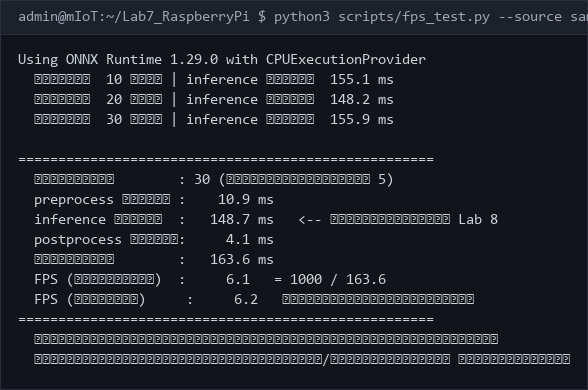
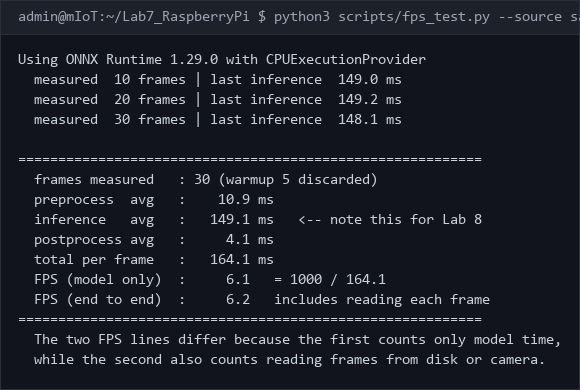
Lab7+Lab8: keep script output ASCII so the figures are readable
The repo already had this rule, written in its own scripts: "print messages
must be ASCII - a console that isn't a Thai codepage will break on Thai."
The Pi scripts I added yesterday printed Thai, and it showed up where it
does the most damage: docs/shoot.py renders figures with Consolas, which
has no Thai glyphs, so every measurement table in the Lab 7 and Lab 8
figures came out as rows of empty boxes.

Pillow here is built without Raqm, so it cannot shape Thai combining vowels
and tone marks at all -- swapping in a Thai font would place the marks
wrongly rather than fix it. Following the existing convention is both the
correct fix and the cheaper one: Thai stays in the comments and the manual,
where it is actually read, and screen output is English.

All eight scripts were rerun on the Pi afterwards, so every number and every
figure in both manuals now comes from the ASCII versions rather than from
the earlier run. The install figure is from a genuinely cold run with the
pip cache purged (7m09s), so the torch 159.3 MB download line the caption
points at is really there, rather than a "Using cached" line from a warm
second run.

Numbers moved slightly on rerun, as they should between runs, and the
manuals were updated to match: 640 inference 149.1 ms, 320 inference
32.7 ms (24.8 FPS), Hailo yolov6n 3.18 ms / 586.6 FPS.

Claude-Session: https://claude.ai/code/session_01N1f4sboC6iyqwdT2gMnRu2

diff --git a/Lab7_RaspberryPi/manual.html b/Lab7_RaspberryPi/manual.html
@@ -88,7 +88,7 @@ figcaption{color:var(--muted);font-size:13px;margin-top:10px;text-align:center}
 <li>กล้อง USB หรือ Pi Camera เสียบไว้กับ Pi</li>
 </ul>
 
-<div class="danger"><b>เตรียมพื้นที่และเวลาไว้ให้พอ</b> — ขั้นตอนติดตั้งบน Pi ใช้เวลาราว <b>8 นาที</b> และกินพื้นที่ <b>1.4 GB</b>
+<div class="danger"><b>เตรียมพื้นที่และเวลาไว้ให้พอ</b> — ขั้นตอนติดตั้งบน Pi ใช้เวลาราว <b>7 นาที</b> และกินพื้นที่ <b>1.4 GB</b>
 อย่าเพิ่งเริ่มถ้าเหลือเวลาคาบไม่ถึงครึ่งชั่วโมง</div>
 
 <div class="step"><span class="n">Step 1</span>
@@ -223,20 +223,20 @@ python3 -m venv venv
 ./venv/bin/python scripts/fps_test.py --source samples --frames 30</pre>
 <figure>
   <img src="../docs/images/lab7_fps_640.png" alt="ผลวัดความเร็วบน Raspberry Pi 5 ที่ขนาดภาพ 640">
-  <figcaption>YOLO11n ONNX ที่ 640×640 บน Pi 5 — <b>inference 148.7 ms</b> ต่อเฟรม ได้ราว <b>6 FPS</b></figcaption>
+  <figcaption>YOLO11n ONNX ที่ 640×640 บน Pi 5 — <b>inference 149.1 ms</b> ต่อเฟรม ได้ราว <b>6 FPS</b></figcaption>
 </figure>
 <table>
 <thead><tr><th>ค่าที่วัดได้</th><th>คืออะไร</th><th>ทำไมต้องดู</th></tr></thead>
 <tbody>
 <tr><td><code>preprocess 10.9 ms</code></td><td>ย่อภาพ ใส่ letterbox แปลงเป็น tensor</td><td>งานของ CPU ล้วน ๆ ยิ่งภาพเข้าใหญ่ยิ่งนาน</td></tr>
-<tr><td><b><code>inference 148.7 ms</code></b></td><td>เวลาที่โมเดลคิดจริง ๆ</td><td><b>ตัวหลักที่ต้องจด</b> เอาไปเทียบกับ AI HAT ใน Lab 8</td></tr>
+<tr><td><b><code>inference 149.1 ms</code></b></td><td>เวลาที่โมเดลคิดจริง ๆ</td><td><b>ตัวหลักที่ต้องจด</b> เอาไปเทียบกับ AI HAT ใน Lab 8</td></tr>
 <tr><td><code>postprocess 4.1 ms</code></td><td>ถอดกล่อง ทำ NMS</td><td>เล็กน้อยเมื่อเทียบกับ inference บนเครื่องนี้</td></tr>
-<tr><td><code>FPS (เฉพาะโมเดล) 6.1</code></td><td><code>1000 / 163.6</code></td><td>เพดานทางทฤษฎีถ้าอ่านภาพเข้ามาได้ฟรี</td></tr>
-<tr><td><code>FPS (ทั้งระบบ) 6.2</code></td><td>วัดจากเวลาจริงทั้งวง</td><td><b>ตัวเลขที่ผู้ใช้เห็นจริง</b> รวมเวลาอ่านภาพเข้ามาด้วย</td></tr>
+<tr><td><code>FPS (model only) 6.1</code></td><td><code>1000 / 164.1</code></td><td>เพดานทางทฤษฎีถ้าอ่านภาพเข้ามาได้ฟรี</td></tr>
+<tr><td><code>FPS (end to end) 6.2</code></td><td>วัดจากเวลาจริงทั้งวง</td><td><b>ตัวเลขที่ผู้ใช้เห็นจริง</b> รวมเวลาอ่านภาพเข้ามาด้วย</td></tr>
 </tbody>
 </table>
 <div class="tip"><b>เทียบกับ Lab 6:</b> โน้ตบุ๊ก RTX 3050 Ti รัน <code>.onnx</code> บน CPU ได้ 40.4 ms
-ส่วน Pi 5 ใช้ 148.7 ms — <b>ช้ากว่าราว 3.7 เท่า</b> นี่คือราคาของการย้ายลง Edge</div>
+ส่วน Pi 5 ใช้ 149.1 ms — <b>ช้ากว่าราว 3.7 เท่า</b> นี่คือราคาของการย้ายลง Edge</div>
 
 <div class="walk">
 <h4>🔍 ในสคริปต์มีอะไร — <code>fps_test.py</code></h4>
@@ -266,22 +266,24 @@ for n, frame in enumerate(frames):
 <h3>รันกับกล้องจริง</h3>
 <p>วัดด้วยกล้องก่อน (สั่งผ่าน SSH ได้ ไม่ต้องมีหน้าจอ):</p>
 <pre>./venv/bin/python scripts/fps_test.py --source 0 --frames 20</pre>
-<pre class="out">แหล่งภาพ: กล้อง index 0
+<pre class="out">Source: camera index 0
 Loading /home/admin/Lab7_RaspberryPi/model/best.onnx for ONNX Runtime inference...
 Using ONNX Runtime 1.29.0 with CPUExecutionProvider
-  วัดแล้ว  10 เฟรม | inference ล่าสุด  145.2 ms
-  วัดแล้ว  20 เฟรม | inference ล่าสุด  144.6 ms
+  measured  10 frames | last inference  151.4 ms
+  measured  20 frames | last inference  148.8 ms
 
-====================================================
-  เฟรมที่วัด        : 20 (ทิ้งรอบอุ่นเครื่อง 5)
-  preprocess เฉลี่ย :     9.8 ms
-  inference เฉลี่ย  :   145.6 ms   &lt;-- จดตัวนี้ไปใช้ใน Lab 8
-  postprocess เฉลี่ย:     2.8 ms
-  รวมต่อเฟรม        :   158.2 ms
-====================================================</pre>
+==========================================================
+  frames measured   : 20 (warmup 5 discarded)
+  preprocess  avg   :     9.6 ms
+  inference   avg   :   149.9 ms   &lt;-- note this for Lab 8
+  postprocess avg   :     4.2 ms
+  total per frame   :   163.7 ms
+  FPS (model only)  :     6.1   = 1000 / 163.7
+  FPS (end to end)  :     6.4   includes reading each frame
+==========================================================</pre>
 <p>ถ้าอยาก<b>เห็นภาพพร้อมกรอบ</b> ต้องรันที่หน้าจอที่ต่อกับ Pi โดยตรง (ผ่าน SSH เปล่า ๆ เปิดหน้าต่างไม่ได้):</p>
 <pre>./run_detect_pi.sh</pre>
-<div class="tip"><b>ตัวเลขจากกล้องใกล้เคียงกับจากภาพนิ่งมาก</b> (145.6 เทียบกับ 148.7 ms)
+<div class="tip"><b>ตัวเลขจากกล้องใกล้เคียงกับจากภาพนิ่งมาก</b> (149.9 เทียบกับ 149.1 ms)
 แปลว่าคอขวดอยู่ที่<b>ตัวโมเดล</b> ไม่ใช่ที่กล้อง — ซื้อกล้องแพงขึ้นก็ไม่ช่วย</div>
 </div>
 
@@ -301,16 +303,16 @@ Using ONNX Runtime 1.29.0 with CPUExecutionProvider
 <p>แล้วโอนไฟล์ไป Pi และวัดใหม่:</p>
 <figure>
   <img src="../docs/images/lab7_fps_320.png" alt="ผลวัดความเร็วที่ขนาดภาพ 320">
-  <figcaption>ที่ 320×320 — <b>inference 32.4 ms</b> ได้ <b>24.9 FPS</b></figcaption>
+  <figcaption>ที่ 320×320 — <b>inference 32.7 ms</b> ได้ <b>24.8 FPS</b></figcaption>
 </figure>
 
 <h4>ตารางแลกเปลี่ยน: เร็วขึ้นแลกกับอะไร</h4>
 <table>
 <thead><tr><th>ขนาดภาพเข้า</th><th>inference</th><th>FPS</th><th>mAP50</th><th>mAP50-95</th></tr></thead>
 <tbody>
-<tr><td>640 × 640</td><td>148.7 ms</td><td>6.1</td><td><b>0.9750</b></td><td><b>0.8311</b></td></tr>
-<tr><td><b>320 × 320</b></td><td><b>32.4 ms</b></td><td><b>24.9</b></td><td>0.9471</td><td>0.7795</td></tr>
-<tr><td>ต่างกัน</td><td><b>เร็วขึ้น 4.6 เท่า</b></td><td>+18.8</td><td>−0.028</td><td>−0.052</td></tr>
+<tr><td>640 × 640</td><td>149.1 ms</td><td>6.1</td><td><b>0.9750</b></td><td><b>0.8311</b></td></tr>
+<tr><td><b>320 × 320</b></td><td><b>32.7 ms</b></td><td><b>24.8</b></td><td>0.9471</td><td>0.7795</td></tr>
+<tr><td>ต่างกัน</td><td><b>เร็วขึ้น 4.6 เท่า</b></td><td>+18.7</td><td>−0.028</td><td>−0.052</td></tr>
 </tbody>
 </table>
 <div class="tip"><b>อ่านตารางนี้ให้เป็น</b> — ลดขนาดภาพครึ่งหนึ่ง งานคำนวณลดลงราว 4 เท่า (เพราะเป็นพื้นที่ ไม่ใช่ความยาว)
@@ -380,8 +382,8 @@ Using ONNX Runtime 1.29.0 with CPUExecutionProvider
 
 <div class="tip"><b>ทดสอบแล้วบนเครื่องจริง</b> — Raspberry Pi 5 Model B Rev 1.1 (RAM 4 GB, Raspberry Pi OS บน Debian 13 trixie, Python 3.13.5, aarch64 4 คอร์)
 กล้อง Logitech C270 ผ่าน USB ที่ <code>/dev/video0</code>:
-<code>setup_pi.sh</code> ใช้เวลา <b>7 นาที 38 วินาที</b> ได้ venv ขนาด <b>1.4 GB</b> —
-โมเดล YOLO11n ONNX ที่ 640 ได้ <b>inference 148.7 ms (6.1 FPS)</b> และที่ 320 ได้ <b>32.4 ms (24.9 FPS)</b>
+<code>setup_pi.sh</code> ใช้เวลา <b>7 นาที 9 วินาที</b> (โหลดสด ไม่ใช้แคช) ได้ venv ขนาด <b>1.4 GB</b> —
+โมเดล YOLO11n ONNX ที่ 640 ได้ <b>inference 149.1 ms (6.1 FPS)</b> และที่ 320 ได้ <b>32.7 ms (24.8 FPS)</b>
 ตัวเลข mAP มาจากการ <code>val</code> บน test split ของ african-wildlife (227 ภาพ)</div>
 
 <div class="deliverable">

diff --git a/Lab8_AIHat/manual.html b/Lab8_AIHat/manual.html
@@ -138,7 +138,7 @@ fi</pre>
 ./run_detect_hailo.sh yolov8s</pre>
 <figure>
   <img src="../docs/images/lab8_download_run.png" alt="ผลการเตรียมไฟล์ hef และวัดความเร็วบน Hailo">
-  <figcaption>YOLOv8s บน Hailo-8 — <b>latency 6.66 ms</b> ได้ <b>309.5 FPS</b></figcaption>
+  <figcaption>YOLOv8s บน Hailo-8 — <b>latency 6.66 ms</b> ได้ <b>309.4 FPS</b></figcaption>
 </figure>
 
 <div class="card">
@@ -193,7 +193,7 @@ done</pre>
 <div class="step"><span class="n">Step 3</span>
 <h3>เทียบกับตัวเลข CPU ที่วัดเองใน Lab 7</h3>
 <pre>./run_detect_hailo.sh
-python3 compare_speed.py --cpu 148.7 --hailo 3.18</pre>
+python3 compare_speed.py --cpu 149.1 --hailo 3.18</pre>
 <figure>
   <img src="../docs/images/lab8_compare.png" alt="เทียบความเร็ว CPU กับ Hailo AI HAT">
   <figcaption>ใส่ตัวเลขที่<b>วัดเองจากเครื่องตัวเอง</b> ไม่ใช่ลอกจากคู่มือ</figcaption>
@@ -201,9 +201,9 @@ python3 compare_speed.py --cpu 148.7 --hailo 3.18</pre>
 <table>
 <thead><tr><th>โมเดล</th><th>รันบน</th><th>latency</th><th>FPS</th></tr></thead>
 <tbody>
-<tr><td>YOLO11n @640 (ของเรา)</td><td>Pi 5 CPU</td><td>148.7 ms</td><td>6.1</td></tr>
-<tr><td>YOLOv6n @640</td><td><b>Hailo-8</b></td><td><b>3.18 ms</b></td><td><b>586.5</b></td></tr>
-<tr><td>YOLOv8s @640</td><td><b>Hailo-8</b></td><td>6.66 ms</td><td>309.5</td></tr>
+<tr><td>YOLO11n @640 (ของเรา)</td><td>Pi 5 CPU</td><td>149.1 ms</td><td>6.1</td></tr>
+<tr><td>YOLOv6n @640</td><td><b>Hailo-8</b></td><td><b>3.18 ms</b></td><td><b>586.6</b></td></tr>
+<tr><td>YOLOv8s @640</td><td><b>Hailo-8</b></td><td>6.66 ms</td><td>309.4</td></tr>
 </tbody>
 </table>
 <div class="danger"><b>ตัวเลข "เร็วขึ้น 47 เท่า" นี้เกินจริง ต้องอ่านให้เป็น</b> เพราะสองฝั่งไม่ยุติธรรมกันอยู่ 2 ข้อ:
@@ -221,9 +221,9 @@ python3 compare_speed.py --cpu 148.7 --hailo 3.18</pre>
 <thead><tr><th>ท่อน</th><th>บน CPU ล้วน</th><th>ถ้ายก inference ไปให้ NPU</th></tr></thead>
 <tbody>
 <tr><td>preprocess</td><td>10.9 ms</td><td>10.9 ms (ยังอยู่บน CPU)</td></tr>
-<tr><td>inference</td><td>148.7 ms</td><td><b>~3.2 ms</b></td></tr>
+<tr><td>inference</td><td>149.1 ms</td><td><b>~3.2 ms</b></td></tr>
 <tr><td>postprocess</td><td>4.1 ms</td><td>4.1 ms (ยังอยู่บน CPU)</td></tr>
-<tr><td><b>รวม</b></td><td><b>163.6 ms (6.1 FPS)</b></td><td><b>~18.2 ms (~55 FPS)</b></td></tr>
+<tr><td><b>รวม</b></td><td><b>164.1 ms (6.1 FPS)</b></td><td><b>~18.2 ms (~55 FPS)</b></td></tr>
 </tbody>
 </table>
 <p>เร่งเฉพาะ inference ได้ 47 เท่า แต่ทั้งระบบเร็วขึ้นราว <b>9 เท่า</b> เท่านั้น
@@ -284,8 +284,8 @@ LAT=$(awk -F'= *' '/Latency +\(hw\)/{print $2}' "$LOG" | awk '{print $1}')</pre>
 
 <div class="tip"><b>ทดสอบแล้วบนเครื่องจริง</b> — Raspberry Pi 5 Model B Rev 1.1 + Hailo-8 บน PCIe (<code>0001:01:00.0</code>),
 <code>hailo-all</code> 5.1.1, HailoRT/เฟิร์มแวร์ 4.23.0, Device Architecture <code>HAILO8</code>:
-<code>yolov6n_h8.hef</code> ได้ <b>586.5 FPS / latency 3.18 ms</b> และ <code>yolov8s_h8.hef</code> ได้ <b>309.5 FPS / latency 6.66 ms</b>
-เทียบกับ CPU ของ Pi เครื่องเดียวกันใน Lab 7 ที่ inference 148.7 ms
+<code>yolov6n_h8.hef</code> ได้ <b>586.6 FPS / latency 3.18 ms</b> และ <code>yolov8s_h8.hef</code> ได้ <b>309.4 FPS / latency 6.66 ms</b>
+เทียบกับ CPU ของ Pi เครื่องเดียวกันใน Lab 7 ที่ inference 149.1 ms
 การวัดพลังงานด้วย <code>--measure-power</code> ใช้กับบอร์ดตัวนี้ไม่ได้</div>
 
 <div class="deliverable">

diff --git a/Lab7_RaspberryPi/scripts/fps_test.py b/Lab7_RaspberryPi/scripts/fps_test.py
@@ -1,11 +1,14 @@
 """Lab 7 - วัดความเร็ว YOLO บน Raspberry Pi (CPU)
 
 ใช้ได้ 2 แบบ
-  python3 fps_test.py                 # ใช้กล้อง /dev/video0
+  python3 fps_test.py                       # ใช้กล้อง /dev/video0
   python3 fps_test.py --source ../samples   # ใช้ภาพนิ่งในโฟลเดอร์ (ไม่ต้องมีกล้อง)
 
-ตัวเลข "inference เฉลี่ย (ms)" ที่พิมพ์ออกมาตอนจบ คือค่าที่ต้องจดไปกรอกใน
+ตัวเลข "inference avg" ที่พิมพ์ออกมาตอนจบ คือค่าที่ต้องจดไปกรอกใน
 Lab 8 (compare_speed.py) เพื่อเทียบกับ AI HAT
+
+ข้อความ print ต้องเป็น ASCII - console ที่ไม่ใช่ codepage ไทยจะพังถ้าเจอภาษาไทย
+และตัวเรนเดอร์ภาพประกอบ (docs/shoot.py) ก็วาดสระ/วรรณยุกต์ไทยไม่ได้
 """
 import argparse
 import statistics
@@ -27,7 +30,7 @@ def frames_from_folder(folder, count):
     """วนอ่านภาพนิ่งในโฟลเดอร์ซ้ำไปเรื่อย ๆ จนครบจำนวนที่ขอ"""
     files = sorted(p for p in folder.iterdir() if p.suffix.lower() in IMG_EXT)
     if not files:
-        raise SystemExit(f"ไม่พบไฟล์ภาพใน {folder}")
+        raise SystemExit(f"No image files found in {folder}")
     for i in range(count):
         img = cv2.imread(str(files[i % len(files)]))
         if img is not None:
@@ -38,9 +41,10 @@ def frames_from_camera(index, count):
     cap = cv2.VideoCapture(index)
     if not cap.isOpened():
         raise SystemExit(
-            f"เปิดกล้อง index {index} ไม่ได้\n"
-            "  - เช็คว่ามี /dev/video* หรือยัง:  ls /dev/video*\n"
-            "  - เช็คว่าระบบเห็นกล้องไหม:      lsusb"
+            f"Cannot open camera index {index}\n"
+            "  - list video devices:   ls /dev/video*\n"
+            "  - check the USB camera: lsusb\n"
+            "  - Pi Camera instead:    rpicam-hello --list-cameras"
         )
     try:
         for _ in range(count):
@@ -56,33 +60,33 @@ def main():
     ap = argparse.ArgumentParser()
     ap.add_argument("--model", default=str(DEFAULT_MODEL))
     ap.add_argument("--source", default="0",
-                    help="เลข index กล้อง (เช่น 0) หรือ path โฟลเดอร์ภาพ")
-    ap.add_argument("--frames", type=int, default=60, help="จำนวนเฟรมที่วัด")
+                    help="camera index (e.g. 0) or a folder of images")
+    ap.add_argument("--frames", type=int, default=60, help="frames to measure")
     ap.add_argument("--warmup", type=int, default=5,
-                    help="เฟรมแรก ๆ ที่ทิ้งไม่นับ (รอบแรกช้าผิดปกติเสมอ)")
+                    help="frames to discard first (the first runs are always slow)")
     ap.add_argument("--imgsz", type=int, default=None,
-                    help="ปล่อยว่างไว้ = ใช้ขนาดที่ export มา")
+                    help="leave empty to use the size the model was exported at")
     ap.add_argument("--show", action="store_true",
-                    help="เปิดหน้าต่างแสดงผล (ต้องรันหน้าจอ Pi ไม่ใช่ผ่าน SSH)")
+                    help="open a preview window (needs a screen on the Pi, not plain SSH)")
     args = ap.parse_args()
 
     model_path = Path(args.model)
     if not model_path.exists():
         raise SystemExit(
-            f"ไม่พบโมเดลที่ {model_path}\n"
-            "คัดลอก best.onnx จาก Lab 6 มาไว้ที่ Lab7_RaspberryPi/model/ ก่อน"
+            f"Model not found at {model_path}\n"
+            "Copy best.onnx from Lab 6 into Lab7_RaspberryPi/model/ first."
         )
 
-    print(f"โมเดล : {model_path}")
+    print(f"Model : {model_path}")
     model = YOLO(str(model_path), task="detect")
 
     total = args.warmup + args.frames
     src = Path(args.source)
     if src.is_dir():
-        print(f"แหล่งภาพ: โฟลเดอร์ {src}")
+        print(f"Source: folder {src}")
         frames = frames_from_folder(src, total)
     else:
-        print(f"แหล่งภาพ: กล้อง index {args.source}")
+        print(f"Source: camera index {args.source}")
         frames = frames_from_camera(int(args.source), total)
 
     predict_kwargs = {"verbose": False}
@@ -106,28 +110,28 @@ def main():
             if cv2.waitKey(1) & 0xFF == ord("q"):
                 break
         if len(inf) % 10 == 0:
-            print(f"  วัดแล้ว {len(inf):3d} เฟรม | inference ล่าสุด {inf[-1]:6.1f} ms")
+            print(f"  measured {len(inf):3d} frames | last inference {inf[-1]:6.1f} ms")
 
     if args.show:
         cv2.destroyAllWindows()
 
     if not inf:
-        raise SystemExit("ไม่ได้เฟรมสักเฟรม - เช็คกล้อง/โฟลเดอร์ภาพ")
+        raise SystemExit("Got no frames at all - check the camera or image folder")
 
     wall = time.perf_counter() - t_start
     per_frame = statistics.mean(pre) + statistics.mean(inf) + statistics.mean(post)
     print()
-    print("=" * 52)
-    print(f"  เฟรมที่วัด        : {len(inf)} (ทิ้งรอบอุ่นเครื่อง {args.warmup})")
-    print(f"  preprocess เฉลี่ย : {statistics.mean(pre):7.1f} ms")
-    print(f"  inference เฉลี่ย  : {statistics.mean(inf):7.1f} ms   <-- จดตัวนี้ไปใช้ใน Lab 8")
-    print(f"  postprocess เฉลี่ย: {statistics.mean(post):7.1f} ms")
-    print(f"  รวมต่อเฟรม        : {per_frame:7.1f} ms")
-    print(f"  FPS (เฉพาะโมเดล)  : {1000 / per_frame:7.1f}   = 1000 / {per_frame:.1f}")
-    print(f"  FPS (ทั้งระบบ)     : {len(inf) / wall:7.1f}   รวมเวลาอ่านภาพเข้ามาด้วย")
-    print("=" * 52)
-    print("  สองบรรทัดล่างต่างกันเพราะบรรทัดบนนับเฉพาะเวลาที่โมเดลทำงาน")
-    print("  ส่วนบรรทัดล่างนับเวลาอ่านภาพจากดิสก์/กล้องเข้าไปด้วย ซึ่งคือของจริง")
+    print("=" * 58)
+    print(f"  frames measured   : {len(inf)} (warmup {args.warmup} discarded)")
+    print(f"  preprocess  avg   : {statistics.mean(pre):7.1f} ms")
+    print(f"  inference   avg   : {statistics.mean(inf):7.1f} ms   <-- note this for Lab 8")
+    print(f"  postprocess avg   : {statistics.mean(post):7.1f} ms")
+    print(f"  total per frame   : {per_frame:7.1f} ms")
+    print(f"  FPS (model only)  : {1000 / per_frame:7.1f}   = 1000 / {per_frame:.1f}")
+    print(f"  FPS (end to end)  : {len(inf) / wall:7.1f}   includes reading each frame")
+    print("=" * 58)
+    print("  The two FPS lines differ because the first counts only model time,")
+    print("  while the second also counts reading frames from disk or camera.")
 
 
 if __name__ == "__main__":

diff --git a/Lab8_AIHat/scripts/compare_speed.py b/Lab8_AIHat/scripts/compare_speed.py
@@ -4,6 +4,8 @@
     python3 compare_speed.py --cpu 150.2 --hailo 3.18
 หรือรันเปล่า ๆ แล้วพิมพ์ตอบทีละค่า:
     python3 compare_speed.py
+
+ข้อความ print ต้องเป็น ASCII - console ที่ไม่ใช่ codepage ไทยจะพังถ้าเจอภาษาไทย
 """
 import argparse
 
@@ -17,33 +19,34 @@ def ask(prompt):
                 return value
         except ValueError:
             pass
-        print("  กรุณาใส่ตัวเลขมากกว่า 0")
+        print("  Please enter a number greater than 0")
 
 
 def main():
     ap = argparse.ArgumentParser()
     ap.add_argument("--cpu", type=float,
-                    help="เวลา inference เฉลี่ยบน CPU (ms) จาก Lab 7 fps_test.py")
+                    help="average CPU inference time in ms, from Lab 7 fps_test.py")
     ap.add_argument("--hailo", type=float,
-                    help="latency ของชิป (ms) จาก Lab 8 run_detect_hailo.sh")
+                    help="chip latency in ms, from Lab 8 run_detect_hailo.sh")
     args = ap.parse_args()
 
-    cpu_ms = args.cpu if args.cpu else ask("CPU inference เฉลี่ยจาก Lab 7 (ms): ")
-    hailo_ms = args.hailo if args.hailo else ask("latency ของ AI HAT (ms): ")
+    cpu_ms = args.cpu if args.cpu else ask("CPU inference avg from Lab 7 (ms): ")
+    hailo_ms = args.hailo if args.hailo else ask("AI HAT latency (ms): ")
 
     speedup = cpu_ms / hailo_ms
     print()
-    print("=" * 52)
+    print("=" * 58)
     print(f"  Raspberry Pi 5 CPU : {cpu_ms:7.2f} ms  ({1000 / cpu_ms:6.1f} FPS)")
     print(f"  Hailo AI HAT       : {hailo_ms:7.2f} ms  ({1000 / hailo_ms:6.1f} FPS)")
-    print(f"  เร็วขึ้น            : {speedup:7.1f} เท่า")
-    print("=" * 52)
+    print(f"  speedup            : {speedup:7.1f} x")
+    print("=" * 58)
     print()
-    print("อ่านผลให้เป็น:")
-    print("  - ตัวเลขนี้เทียบ 'เวลาในชิป' ทั้งคู่ ยังไม่รวมงานที่ CPU ต้องทำอยู่ดี")
-    print("    (อ่านภาพจากกล้อง ย่อขนาด วาดกรอบ) ระบบจริงจึงไม่ได้เร็วขึ้นเท่านี้ทั้งหมด")
-    print("  - ถ้าโมเดลสองฝั่งคนละตัว (เช่น CPU รัน YOLO11n แต่ HAT รัน YOLOv6n)")
-    print("    ให้ระบุไว้ในรายงานด้วย ไม่งั้นเป็นการเทียบที่ไม่ยุติธรรม")
+    print("How to read this:")
+    print("  - Both numbers are chip time only. The CPU still has work to do either")
+    print("    way (reading frames, resizing, drawing boxes), so the whole system")
+    print("    does not get this much faster.")
+    print("  - If the two sides run different models (CPU on YOLO11n, HAT on")
+    print("    YOLOv6n), say so in your report - otherwise it is an unfair compare.")
 
 
 if __name__ == "__main__":
